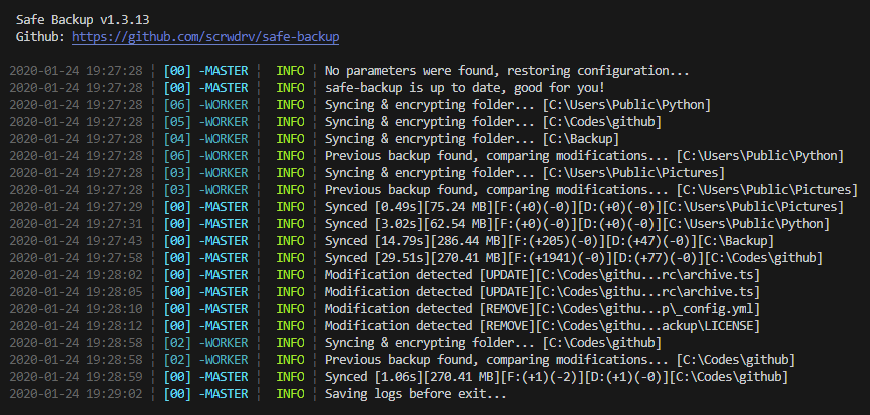
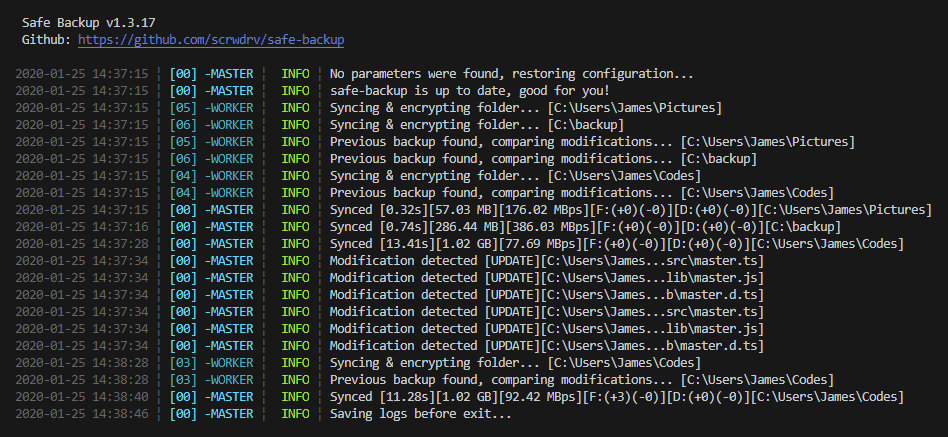
Add backup rate to logging

diff --git a/lib/master.js b/lib/master.js
@@ -594,10 +594,11 @@ function backup(options) {
         const worker = getWokrer(), t = Date.now();
         running.push(worker.id);
         worker.sendJob('backup', options, (err, bytes, mods) => {
+            const tDiff = Date.now() - t;
             if (err)
                 log.debug(err), log.error(`Error occurred while syncing [${formatPath(options.input)}]`), log.warn(`If this happens continuously, try to delete old backup file`);
             else
-                log.info(`Synced [${formatSec(Date.now() - t)}s][${formatBytes(bytes)}][F:(+${mods.file[0]})(-${mods.file[1]})][D:(+${mods.directory[0]})(-${mods.directory[1]})][${formatPath(options.input)}]`);
+                log.info(`Synced [${formatSec(tDiff)}s][${formatBytes(bytes)}][${(bytes / 1048576 / (tDiff / 1000)).toFixed(2)} MBps][F:(+${mods.file[0]})(-${mods.file[1]})][D:(+${mods.directory[0]})(-${mods.directory[1]})][${formatPath(options.input)}]`);
             const index = running.indexOf(worker.id);
             if (index > -1)
                 running.splice(index, 1);

diff --git a/src/master.ts b/src/master.ts
@@ -631,8 +631,9 @@ function backup(options: BackupOptions) {
             t = Date.now();
         running.push(worker.id);
         worker.sendJob('backup', options, (err, bytes, mods) => {
+            const tDiff = Date.now() - t;
             if (err) log.debug(err), log.error(`Error occurred while syncing [${formatPath(options.input)}]`), log.warn(`If this happens continuously, try to delete old backup file`);
-            else log.info(`Synced [${formatSec(Date.now() - t)}s][${formatBytes(bytes)}][F:(+${mods.file[0]})(-${mods.file[1]})][D:(+${mods.directory[0]})(-${mods.directory[1]})][${formatPath(options.input)}]`);
+            else log.info(`Synced [${formatSec(tDiff)}s][${formatBytes(bytes)}][${(bytes / 1048576 / (tDiff / 1000)).toFixed(2)} MBps][F:(+${mods.file[0]})(-${mods.file[1]})][D:(+${mods.directory[0]})(-${mods.directory[1]})][${formatPath(options.input)}]`);
 
             const index = running.indexOf(worker.id);
             if (index > -1) running.splice(index, 1);
